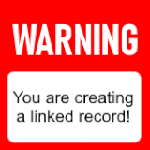
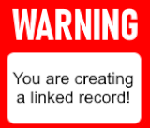
Enabled record navigation #573
Also made the warning label a little less tall

diff --git a/MassDigitizer/specimen_data_entry_ui.py b/MassDigitizer/specimen_data_entry_ui.py
@@ -24,9 +24,9 @@ import traceback
 from pathlib import Path
 
 # PySide6 imports
-from PySide6.QtWidgets import QApplication, QMainWindow, QTableWidgetItem, QHeaderView, QAbstractItemView
 from PySide6.QtWidgets import QLineEdit, QComboBox, QRadioButton, QCheckBox, QMessageBox
-from PySide6.QtCore import Qt, QFile, QStandardPaths, QStringListModel, QEvent
+from PySide6.QtWidgets import QApplication, QMainWindow, QTableWidgetItem, QHeaderView
+from PySide6.QtCore import Qt, QFile, QStandardPaths, QStringListModel
 from PySide6.QtGui import QFont, QIcon, QPixmap
 from PySide6.QtWidgets import QCompleter
 from PySide6.QtUiTools import QUiLoader
@@ -335,7 +335,8 @@ class SpecimenDataEntryUI(QMainWindow):
     
     def on_container_name_return_pressed(self):self.collobj.containername = self.ui.inpContainerName.text()
 
-    def on_notes_return_pressed(self): self.collobj.notes = self.ui.inpNotes.text()
+    def on_notes_return_pressed(self): 
+        self.collobj.notes = self.ui.inpNotes.text()
 
     def on_catalog_number_return_pressed(self): 
         self.collobj.catalogNumber = self.ui.inpCatalogNumber.text()
@@ -347,10 +348,57 @@ class SpecimenDataEntryUI(QMainWindow):
     def on_catalog_number_text_changed(self): self.collobj.catalogNumber = self.ui.inpCatalogNumber.text()
 
     def on_back_clicked(self):
-        pass
+        # Fetch previous specimen record data on basis of current record ID, if any
+        record = self.collobj.loadPrevious()
+
+        # If no further record back, retrieve current record (if any) or last record (if any)
+        if not record:
+            # If there is a current record, reload current (meaning stay with current)
+            if self.collobj.id > 0:
+                record = self.collobj.load(self.collobj.id)
+            # Otherwise get latest record, if any
+            else:
+                record = self.db.getLastRow('specimen', self.collectionId)
+                # If no records at all, this may indicate an empty table
+
+        # If a record has finally been retrieved, present content in data fields
+        if record:
+            self.load_form(record)
+
+        # Fill form fields 
+        self.fillFormFields()
+
+        # Reset focus back to first field (Storage)
+        self.ui.inpStorage.setFocus()
 
     def on_forward_clicked(self):
-        pass
+        # First get current instance as record
+        record = self.collobj.loadNext()
+        
+        if not record:
+            # No further record: Prepare for blank record
+            self.collobj = specimen.Specimen(self.collectionId)
+            self.clearNonStickyFields()
+            # Transfer data in sticky fields to new record:
+            self.setSpecimenFields()
+        else:
+            # If a record has finally been retrieved, present content in data fields
+            self.load_form(record)
+
+        # Fill form fields 
+        self.fillFormFields()
+        
+        # Reset focus back to first field (Storage)
+        self.ui.inpStorage.setFocus()
+
+    def load_form(self, record):
+        """Load form with data from record."""
+        self.collobj.setFields(record)
+        self.fillFormFields()
+
+        # Reload recordset and repopulate table of adjacent records
+        self.recordSet.reload(record)
+        self.load_previous_records()
 
     def updateRecordCount(self):
         """
@@ -399,7 +447,7 @@ class SpecimenDataEntryUI(QMainWindow):
 
                     # Transfer data in sticky fields to new record:
                     self.setSpecimenFields() 
-                    self.fillFormFields(self.collobj.getFieldsAsDict())
+                    self.fillFormFields()
                     
                     # Prepare form for next new record
                     self.clearNonStickyFields()
@@ -465,6 +513,15 @@ class SpecimenDataEntryUI(QMainWindow):
             checkfield = self.ui.findChild(QCheckBox, key)
             if checkfield: checkfield.setChecked(False)
 
+        if 'inpContainerName' in fieldList:
+            self.ui.radRadioSSO.setChecked(True)
+
+        # If existing record, highlight record id
+        if self.collobj.id > 0:
+            self.ui.txtRecordID.setStyleSheet("QLabel { background-color: yellow }")
+        else:
+            self.ui.txtRecordID.setStyleSheet("")
+
         # Reset focus on the storage field
         self.ui.inpStorage.setFocus()   
 
@@ -515,15 +572,14 @@ class SpecimenDataEntryUI(QMainWindow):
             taxonRecord = None
         return taxonRecord
 
-    def fillFormFields(self, record):
+    def fillFormFields(self):
         """
         Function for setting form fields from specimen data record
-        """
-        def str_to_bool(value):
-            return value.lower() in ('true', '1', 'yes')
+        """        
+        record = self.collobj.getFieldsAsDict()
 
-        if record.get('id'):
-            self.ui.txtRecordID.setText(record.get('id', ''))
+        self.ui.txtRecordID.setText(record.get('id', '-new record-'))
+        if record.get('id') == '0': self.ui.txtRecordID.setText('-new record-')
         self.ui.inpStorage.setText(record.get('storagefullname', ''))
         self.ui.txtStorageFullname.setText(record.get('storagefullname', ''))
         self.ui.cbxPrepType.setCurrentText(record.get('preptypename', ''))
@@ -533,8 +589,8 @@ class SpecimenDataEntryUI(QMainWindow):
             self.ui.chkDamage.setChecked(True)
         else:
             self.ui.chkDamage.setChecked(False)
-        self.ui.chkSpecimenObscured.setChecked(str_to_bool(record.get('specimenobscured', 'False')))
-        self.ui.chkLabelObscured.setChecked(str_to_bool(record.get('labelobscured', 'False')))
+        self.ui.chkSpecimenObscured.setChecked(util.str_to_bool(record.get('specimenobscured', 'False')))
+        self.ui.chkLabelObscured.setChecked(util.str_to_bool(record.get('labelobscured', 'False')))
 
         self.ui.inpNotes.setText(record.get('notes', ''))
 
@@ -545,6 +601,8 @@ class SpecimenDataEntryUI(QMainWindow):
         if self.collection.useTaxonNumbers:
             self.ui.inpTaxonNumber.setText(record.get('taxonnumber', ''))
         self.ui.inpCatalogNumber.setText(record.get('catalognumber', ''))
+
+        self.ui.txtRecordID.setStyleSheet("")
     
     def setContainerFields(self, record):
         """

diff --git a/MassDigitizer/util.py b/MassDigitizer/util.py
@@ -170,6 +170,10 @@ def getVersionNumber():
 # DaSSCo.issfile which has this format:/ #define MyAppVersion "0.2.5" /
 # (Please ignore the forward slashes above)"""
 
+
+def str_to_bool(value):
+    return value.lower() in ('true', '1', 'yes')
+
 class Struct:
     """A structure that can have any fields defined."""
 

diff --git a/MassDigitizer/models/specimen.py b/MassDigitizer/models/specimen.py
@@ -116,6 +116,7 @@ class Specimen(Model):
         if self.containername: #Check if containername is None
             self.containername = self.containername.strip()
         fieldsDict = {
+            'id': f'{self.id}',
             'catalognumber': f'{self.catalogNumber}',
             'taxonfullname': f'{self.taxonFullName}',
             'taxonname': f'{self.taxonName}',